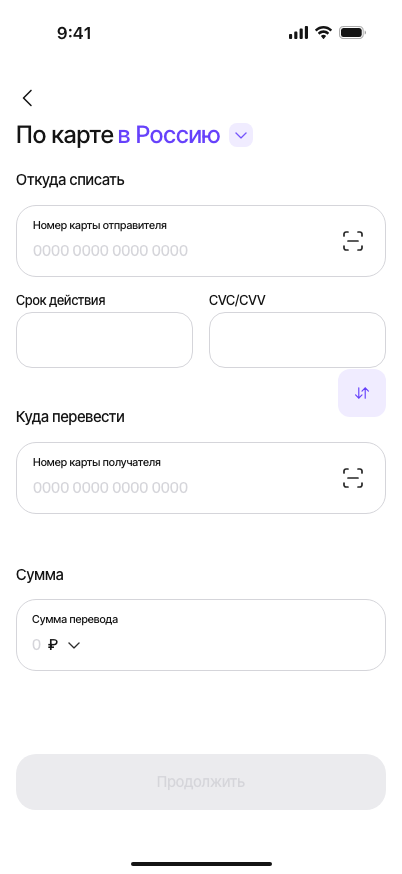
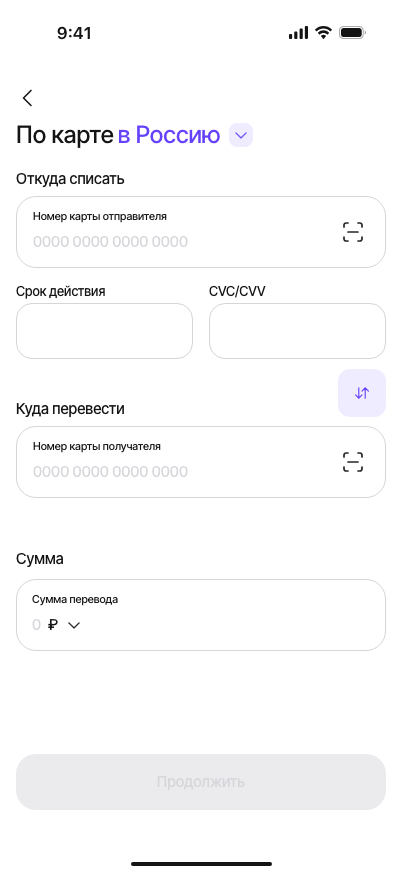
Align guest transfer input spacing with updated Figma

diff --git a/src/styles.css b/src/styles.css
@@ -1412,3 +1412,13 @@ body:has(.guest-direction-sheet[open]) { overflow:hidden; }
 .guest-swap-icon { display:flex; align-items:center; justify-content:center; width:16px; height:16px; transform:rotate(90deg) scaleY(-1); }
 .guest-swap-icon img { display:block; }
 .guest-international-transfer .guest-swap-cards { display:none; }
+
+/* Empty domestic form — current Figma 138:5534 (filled layout stays 171:5848). */
+.guest-inline-source:not(.guest-international-transfer):not(.has-quote) .source-section { padding-top:7px; }
+.guest-inline-source:not(.guest-international-transfer):not(.has-quote) .source-section>h2,
+.guest-inline-source:not(.guest-international-transfer):not(.has-quote) .destination-section>h2 { margin-bottom:8px; }
+.guest-inline-source:not(.guest-international-transfer):not(.has-quote) .destination-section { margin-top:41px; }
+.guest-inline-source:not(.guest-international-transfer):not(.has-quote) .inline-amount h2 { margin-bottom:8px; }
+.guest-inline-source:not(.guest-international-transfer):not(.has-quote) .guest-swap-cards { top:calc(100% + 10px); }
+.guest-inline-source:not(.guest-international-transfer):not(.has-quote) .demo-card-suggestion { top:106px; }
+.guest-inline-source:not(.guest-international-transfer):not(.has-quote) .source-section>.demo-card-suggestion { top:113px; }
